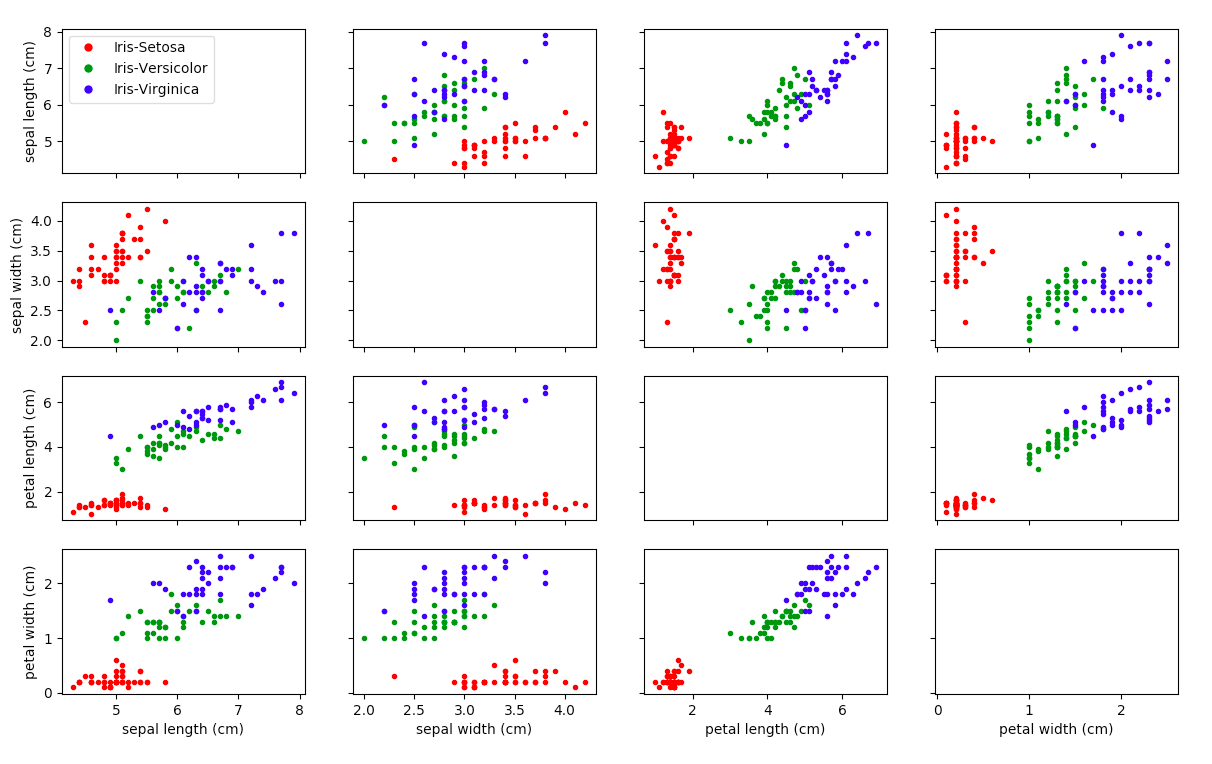
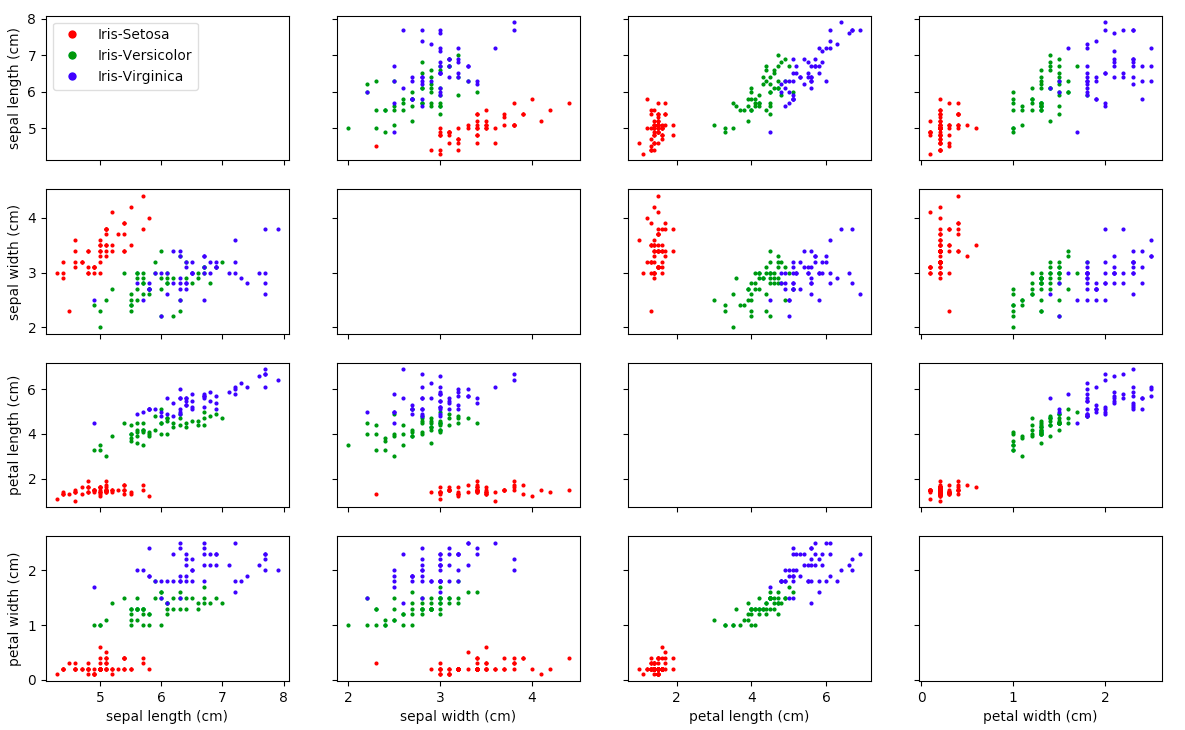
changed iris_plot.png

diff --git a/source/vizualize_data.py b/source/vizualize_data.py
@@ -17,13 +17,10 @@ iris_df['is_virginica'] = (iris_df['class'] == "Iris-virginica").astype(float)
 # Create a feature for our future predictions
 iris_df["predicted_class"] = "No prediction"
 
-# Split data into training and test sets
-train_df, test_df = train_test_split(iris_df, test_size = 0.2)
-
-# Split the train data into groups seperated by label
-train_setosa = train_df.loc[train_df["is_setosa"] == 1.0]
-train_versicolor = train_df.loc[train_df["is_versicolor"] == 1.0]
-train_virginica = train_df.loc[train_df["is_virginica"] == 1.0]
+# Split the data into groups seperated by label
+setosa = iris_df.loc[iris_df["is_setosa"] == 1.0]
+versicolor = iris_df.loc[iris_df["is_versicolor"] == 1.0]
+virginica = iris_df.loc[iris_df["is_virginica"] == 1.0]
 
 # Create a 4 x 4 figure of subplots for each feature pair
 fig, ax = plt.subplots(4, 4, sharex = "col", sharey = "row")
@@ -54,9 +51,9 @@ for index in range(1, 17):
 	# If subplot does not have the same feature for both its features
 	if (x_var != y_var):
 		# Group the data based on species
-		g1 = (np.array(train_setosa[x_var]), np.array(train_setosa[y_var]))
-		g2 = (np.array(train_versicolor[x_var]), np.array(train_versicolor[y_var]))
-		g3 = (np.array(train_virginica[x_var]), np.array(train_virginica[y_var]))
+		g1 = (np.array(setosa[x_var]), np.array(setosa[y_var]))
+		g2 = (np.array(versicolor[x_var]), np.array(versicolor[y_var]))
+		g3 = (np.array(virginica[x_var]), np.array(virginica[y_var]))
 
 		# Color and label the groups
 		data = (g1, g2, g3)
@@ -66,7 +63,7 @@ for index in range(1, 17):
 		# Plot the data in the subplot
 		for data, color, group in zip(data, colors, groups):
 			x, y = data
-			ax[row, col].plot(y, x, "o", c = color, label = group, markersize = 3)
+			ax[row, col].plot(y, x, "o", c = color, label = group, markersize = 2)
 
 # Show all subplots
 plt.show()
